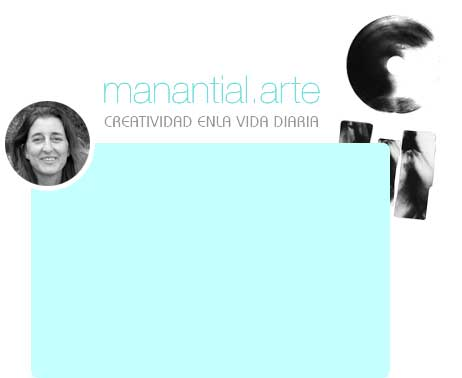
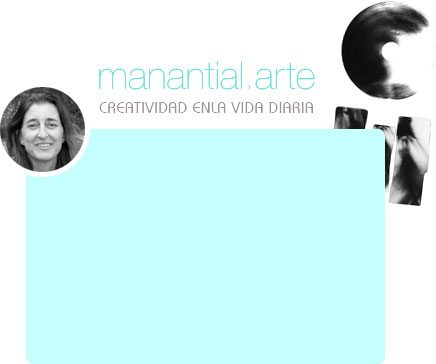
version html 1.0.0

Changed region(s): [[0.0, 0.0, 1.0, 1.0]]

diff --git a/internas.html b/internas.html
@@ -1,0 +1,70 @@
+<!DOCTYPE html>
+<html lang="es">
+<head>
+	<meta charset="UTF-8">
+	<title>Mantial Arte</title>
+	<link rel="stylesheet" href="normalize.css">
+	<link rel="stylesheet" href="estilos.css">
+</head>
+<body>
+
+	<section id="contenedor">
+		
+		<aside>
+			<figure>
+				<img src="img/logo-interno.jpg" alt="Manantial Arte">
+			</figure>
+
+			<ul>
+				<li><a href="#">Manantial Arte</a></li>
+				<li><a href="#">Talleres</a></li>
+				<li><a href="#">Textos sobre creatividad</a></li>
+				<li><a href="#">Testimonios</a></li>
+				<li><a href="#">M.A Solidaria</a></li>
+				<li><a href="#">Contacto</a></li>
+			</ul>
+
+			<figure>
+				<img src="img/perfil.jpg" alt="Carolina Preve">
+			</figure>
+
+			<div class="redes">
+				<ul>
+					<li class="textoEnRedes">Seguime en:</li>
+					<li><a href="#"><img src="img/facebook.jpg" alt="Facebook"></a></li>
+					<li><a href="#"><img src="img/twitt.jpg" alt="Twitter"></a></li>
+				</ul>
+			</div> <!-- End of redes -->
+		</aside>
+
+		<section id="contenidoPrincipal">
+			<hgroup>
+				<h1>Talleres</h1>
+			</hgroup>
+
+			<p>
+				Lorem ipsum dolor sit amet, consectetur adipisicing elit. Quo, fugiat rem odio ea adipisci nihil sunt eos nisi consequatur ad eaque corporis ex possimus dicta qui a quod nulla architecto.
+				Lorem ipsum dolor sit amet, consectetur adipisicing elit. Voluptates, accusamus, debitis, a error possimus deserunt quis dolor nulla eius harum sed laboriosam dolorum expedita ut magni ea fugiat qui porro.
+				Lorem ipsum dolor sit amet, consectetur adipisicing elit. Odio, quam earum qui dolores voluptatum facilis ex aut illo corporis quaerat quos repellat necessitatibus ipsam. Nostrum, eius aliquid rerum eos officiis!
+				Lorem ipsum dolor sit amet, consectetur adipisicing elit. Quo, fugiat rem odio ea adipisci nihil sunt eos nisi consequatur ad eaque corporis ex possimus dicta qui a quod nulla architecto.
+				Lorem ipsum dolor sit amet, consectetur adipisicing elit. Voluptates, accusamus, debitis, a error possimus deserunt quis dolor nulla eius harum sed laboriosam dolorum expedita ut magni ea fugiat qui porro.
+				Lorem ipsum dolor sit amet, consectetur adipisicing elit. Odio, quam earum qui dolores voluptatum facilis ex aut illo corporis quaerat quos repellat necessitatibus ipsam. Nostrum, eius aliquid rerum eos officiis!
+				Lorem ipsum dolor sit amet, consectetur adipisicing elit. Quo, fugiat rem odio ea adipisci nihil sunt eos nisi consequatur ad eaque corporis ex possimus dicta qui a quod nulla architecto.
+				Lorem ipsum dolor sit amet, consectetur adipisicing elit. Voluptates, accusamus, debitis, a error possimus deserunt quis dolor nulla eius harum sed laboriosam dolorum expedita ut magni ea fugiat qui porro.
+				Lorem ipsum dolor sit amet, consectetur adipisicing elit. Odio, quam earum qui dolores voluptatum facilis ex aut illo corporis quaerat quos repellat necessitatibus ipsam. Nostrum, eius aliquid rerum eos officiis!
+				Lorem ipsum dolor sit amet, consectetur adipisicing elit. Quo, fugiat rem odio ea adipisci nihil sunt eos nisi consequatur ad eaque corporis ex possimus dicta qui a quod nulla architecto.
+				Lorem ipsum dolor sit amet, consectetur adipisicing elit. Voluptates, accusamus, debitis, a error possimus deserunt quis dolor nulla eius harum sed laboriosam dolorum expedita ut magni ea fugiat qui porro.
+				Lorem ipsum dolor sit amet, consectetur adipisicing elit. Odio, quam earum qui dolores voluptatum facilis ex aut illo corporis quaerat quos repellat necessitatibus ipsam. Nostrum, eius aliquid rerum eos officiis!
+			</p>
+		</section>
+
+		<footer>
+			<p>
+				Todos los derechos reservados 2013 - Manatial	Arte.
+			</p>
+		</footer>
+
+	</section> <!-- End of contenedor -->
+	
+</body>
+</html>

diff --git a/estilos.css b/estilos.css
@@ -3,49 +3,149 @@ body {
 	color: #222;
 	font-family: Helvetica, Arial, Verdana;
 	font-size: 16px;
-}
-footer {
-	color: #999;
-	font-family: Helvetica, Verdana, Arial;
-	font-size: 0.9em;
 	text-align: center;
 }
-header {
-	background-image: url("img/head.jpg");
-	background-repeat: no-repeat;
-	background-position: center;
-	height: 378px;
-	margin: 0 auto;
-	padding-bottom: -20px;
-	padding-top: 200px;
-	width: 462px;
+h1 {
+	color: #00c7c4;
+	font-family: Verdana, Arial, Helvetica;
+	font-size: 1.1em;
+	font-weight: 100;
+	margin: 20px;
+	text-align: left;
 }
-header p {
-	height: 300px;
-	padding: 50px;
+aside, #contenidoPrincipal {
+	display: inline-block;
+	vertical-align: top;
+}
+aside {
+	float: left;
+	height: auto;
+	margin: 10px;
+	width: 30%;
+}
+aside img {
+	margin: 20px 0 0 -80px;
+}
+aside a {
+	color: #00c7c4;
+	text-decoration: none;
+}
+aside a:hover {
+	color: #333;
+	text-decoration: none;
+}
+aside ul li {
+	font-family: Verdana, Arial, Helvetica;
+	font-size: 0.9em;
+	list-style: none;
+	text-align: left;
+	line-height: 35px;
+}
+#contenidoPrincipal {
+	height: auto;
+	margin: 10px;
+	width: 65%;
+}
+#contenidoPrincipal p {
+	color: #222;
+	text-align: left;
+	margin: 20px;
+	line-height: 23px;
+}
+footer {
+	color: #333;
+	font-family: Helvetica, Verdana, Arial;
+	font-size: 0.8em;
+	height: auto;
+	margin-top: 30px;
+	width: 100%;
+}
+#botones {
+	font-size: 1.2em;
+	font-weight: 100;
+	height: auto;
+	margin: 0 auto;
+	margin-top: 20px;
+	width: 40%;
+}
+#botones a {
+	color: rgb(255,255,255);
+	text-decoration: none;
+}
+#contenedor {
+	background-color: #FFF;
+	height: 680px;
+	margin: 0 auto;
 	width: 75%;
 }
-nav {
-	height: 46px;
+#principal {
+	background-image: url('img/head.jpg');
+	background-repeat: no-repeat;
+	height: 364px;
+	margin-top: 70px;
+	display: inline-block;
+	width: 436px;
+}
+#principal p {
+	color: #333;
+	font-family: Helvetica, Verdana, Arial;
+	font-size: 0.9em;
+	font-style: italic;
+	line-height: 22px;
+	padding: 170px 90px 10px 60px;
+	text-align: justify;
+}
+
+.btnEditorial, .btnFacebook {
+	-webkit-border-radius: 5px;
+	-moz-border-radius: 5px;
+	border-radius: 5px;
+	display: inline-block;
+	font-size: 0.8em;
+	height: 17px;
+	margin: 10px;
+	padding: 5px;
+	vertical-align: top;
+	width: 109px;
+}
+.btnEditorial {
+	background-color: rgb(5,209,173);
+}
+.btnEditorial:hover {
+	background-color: rgb(7,191,158);
+}
+.btnFacebook {
+	background-color: rgb(59,89,152);
+}
+.btnFacebook:hover {
+	background-color: rgb(69,106,183);
+}
+.entrar {
+	background-color: rgb(0,198,195);
+	-webkit-border-radius: 5px;
+	-moz-border-radius: 5px;
+	border-radius: 5px;
+	height: 20px;
 	margin: 0 auto;
-	margin-bottom: -15px;
-	margin-top: -30px;
+	padding: 15px;
 	width: 238px;
 }
-#redes {
-	height: 28px;
-	margin: 0 auto;
-	padding-bottom: 30px;
-	padding-top: 30px;
-	width: 280px;
+.entrar:hover {
+	background-color: rgb(3,177,174);
 }
-#redes img {
-	padding-left: 15px;
-	padding-right: 14px;
+
+.redes {
+	color: #ccc;
+	font-style: italic;
+	height: auto;
+	width: 300px;
 }
-#wrapper {
-	background-color: rgb(255,255,255);
-	height: 800px;
-	margin: 0 auto;
-	width: 85%;
+.redes ul li {
+	display: inline-block;
+	margin-right: 30px;
+	vertical-align: middle;
+}
+.textoEnRedes {
+	padding-right: 55px;
+	margin-left: -10px;
 }

diff --git a/index.html b/index.html
@@ -8,36 +8,41 @@
 </head>
 <body>
 
-	<section id="wrapper">
-		<!-- HEADER -->
-		<header>
+	<section id="contenedor">
+		
+		<section id="principal">
 			<p>
-				Lorem Ipsum es simplemente el texto de relleno de las imprentas y archivos de texto. Lorem Ipsum ha sido el texto de relleno estándar de las industrias desde el año 1500, cuando un impresor (N. del T. persona que se dedica a la imprenta) desconocido usó una galería de textos y los mezcló de tal manera que logró hacer un libro de textos especimen
+				Lorem ipsum dolor sit amet, consectetur adipisicing elit. Omnis, fuga, aperiam, cupiditate, temporibus recusandae ullam obcaecati distinctio enim magni vero voluptas provident dicta beatae eum repudiandae a officiis fugit quis.
 			</p>
-		</header>
-		<!-- HEADER -->
-		
-		<!-- NAV -->
-		<nav>
-			<img src="img/btn-entrar.jpg" alt="Ingresar al sitio">
-		</nav>
-		<!-- NAV -->
-		
-		<!-- ACCESOS -->
-		<section id="redes">
-			<img src="img/btn-editorial.jpg" alt="Editorial">
-			<img src="img/btn-facebook.jpg" alt="Ingresar a Facebook">
-		</section>
-		<!-- ACCESOS -->
+		</section> <!-- End of principal -->
 
-		<!-- FOOTER -->
+		<section id="botones">
+			<a href="#">
+				<div class="entrar">
+					Entrar
+				</div> <!-- End of entrar -->
+			</a>
+
+			<a href="#">
+				<div class="btnEditorial">
+					Editorial
+				</div> <!-- End of btnEditorial -->
+			</a>
+
+			<a href="">
+				<div class="btnFacebook">
+					Facebook
+				</div> <!-- End of btnFacebok -->
+			</a>
+		</section> <!-- End of botones -->
+
 		<footer>
 			<p>
-				Todos los derechos reservados 2013 - Manantial Arte.
+				Todos los derechos reservados 2013 - ManatialArte.
 			</p>
 		</footer>
-		<!-- FOOTER -->
-	</section> <!-- End of wrapper -->
+
+	</section> <!-- End of contenedor -->
 	
 </body>
 </html>
